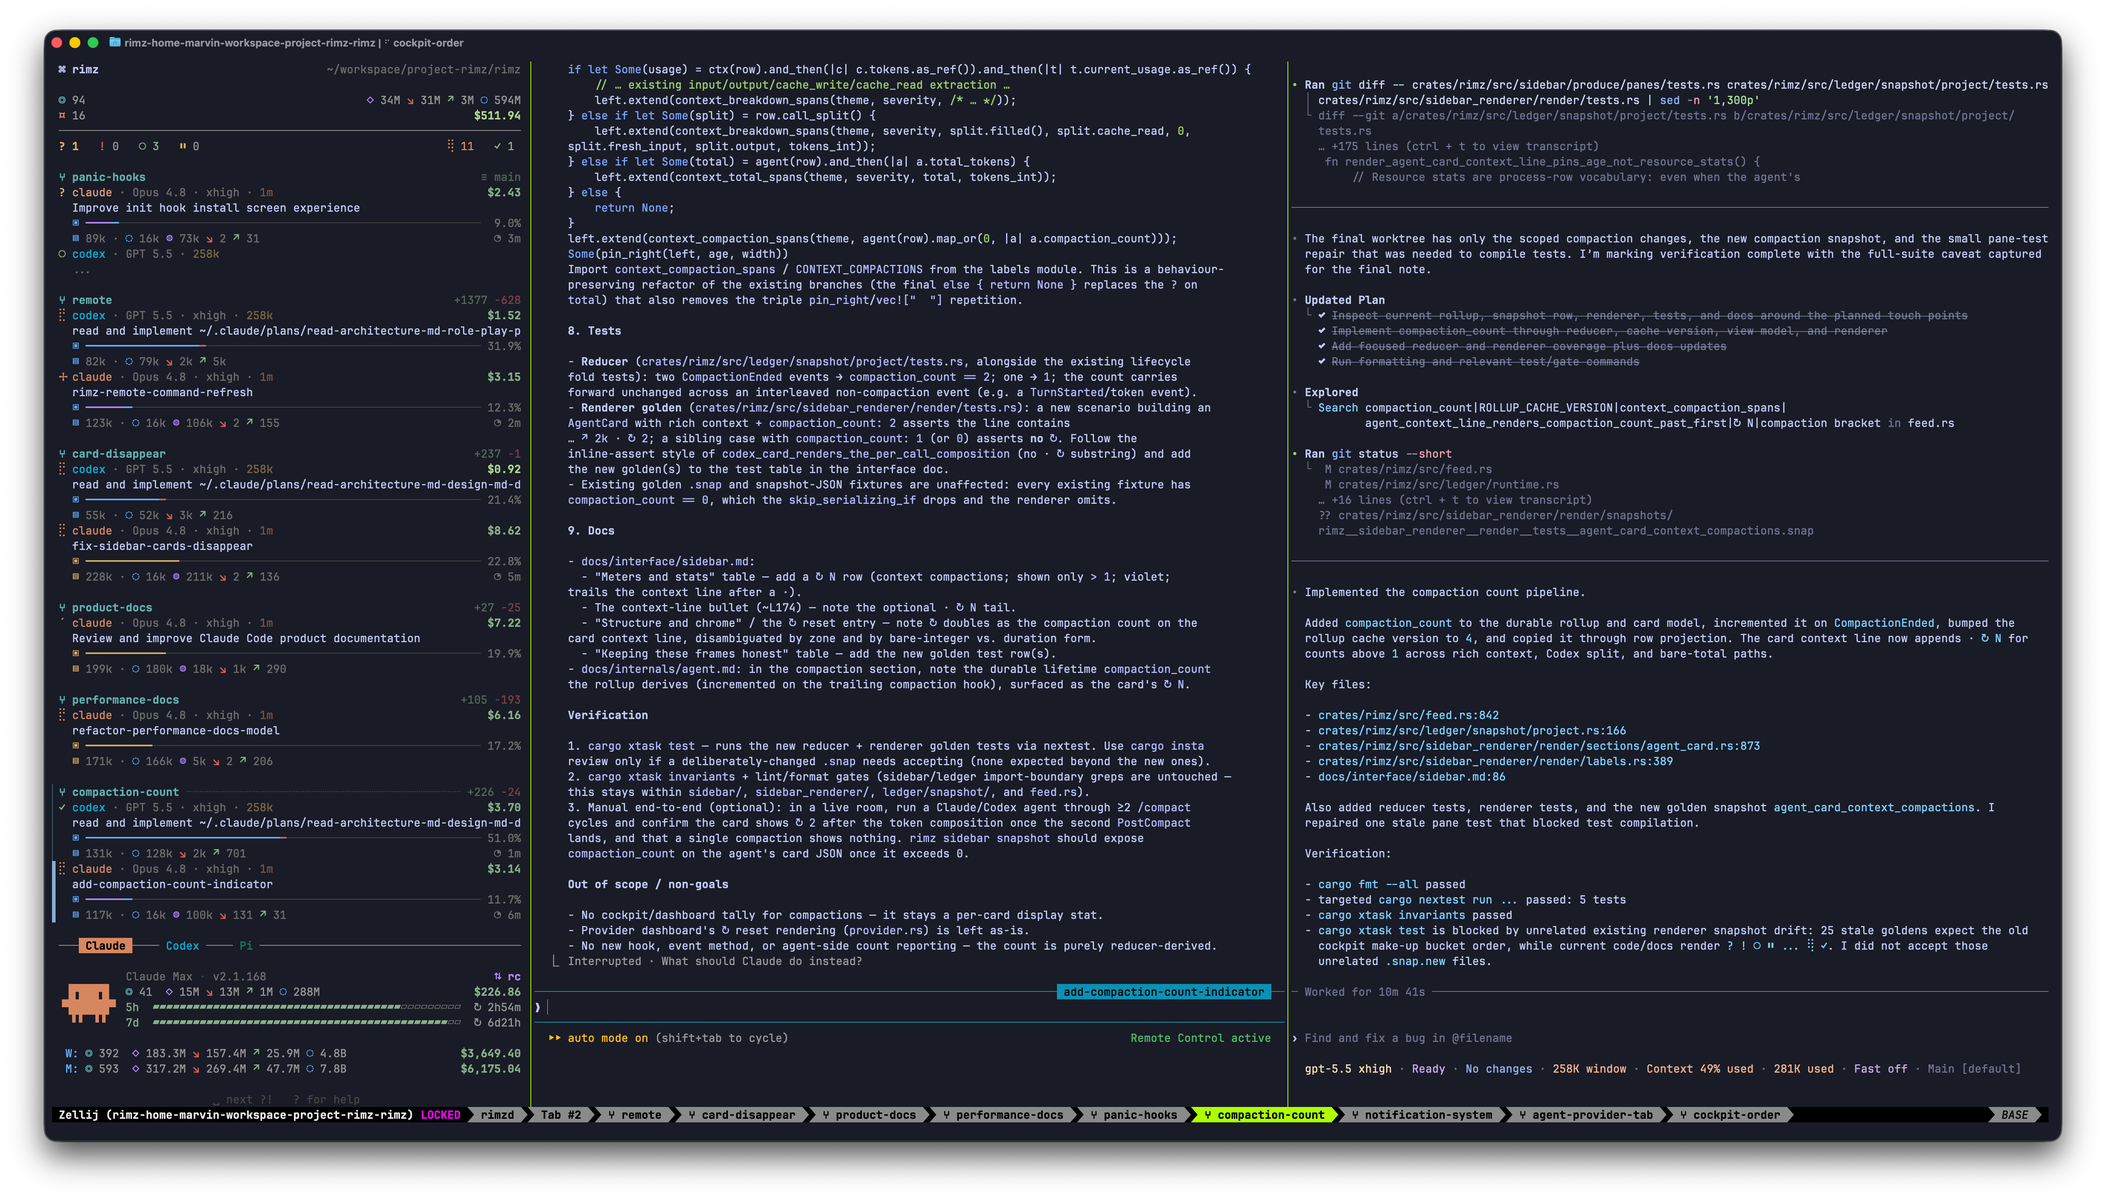
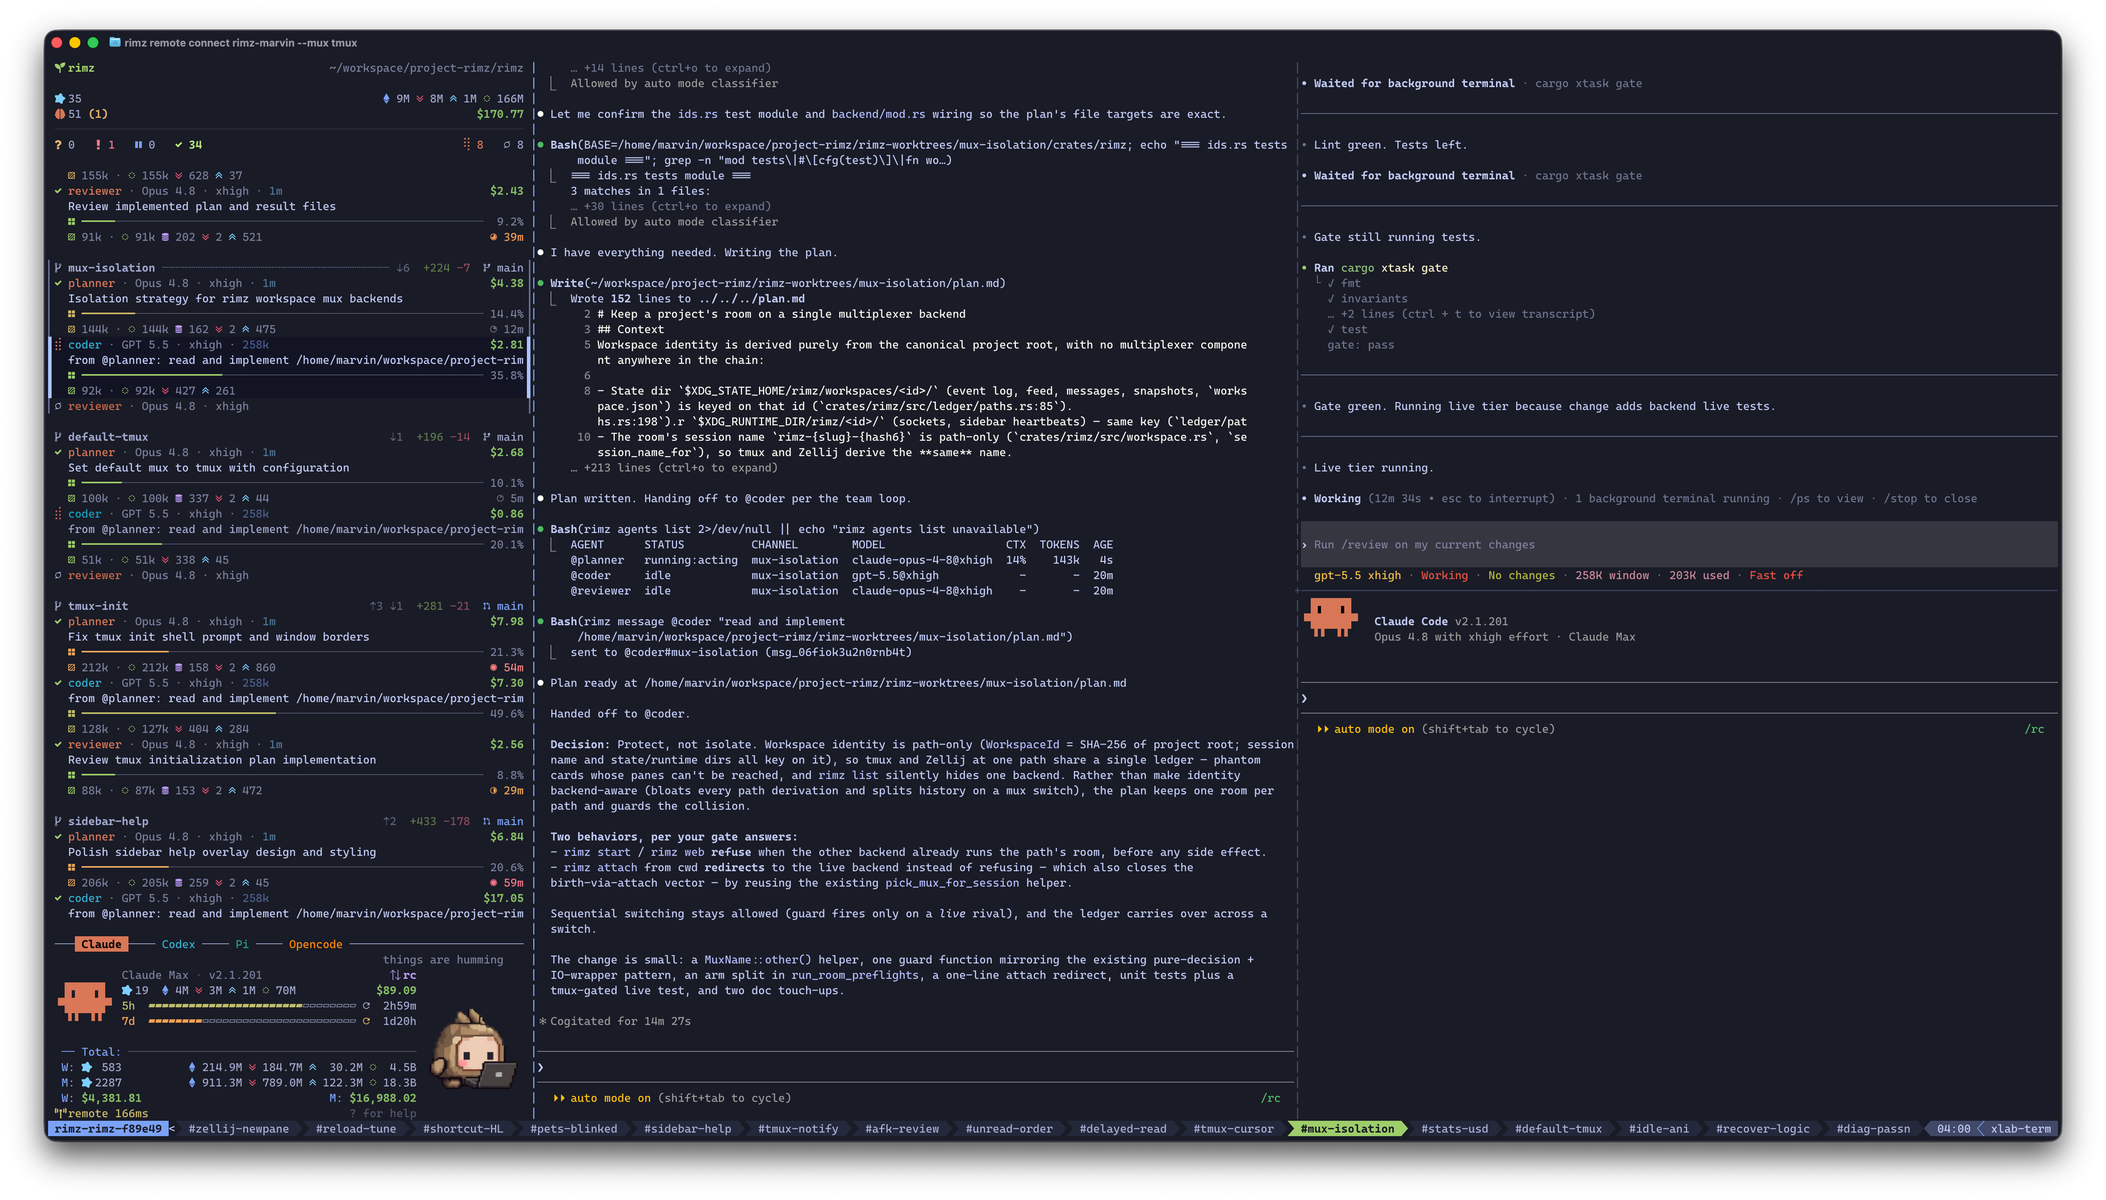
docs(readme): rewrite around the everyday harness workflow
Fold the intention draft into the fine-tuned README: position Rimz as
the substrate for harness and loop engineering, extend Everyday moves
to the full arc (layouts, worktrees, teams, resume, messages,
supervised -p runs, loop behaviors, remote and web), add a
Configuration section linking the setup guide, expand Install with the
Homebrew tap and hooks setup, list OpenCode across the diagram and
matrix, and fix the broken nav anchors. Refresh the room screenshot.

Claude-Session: https://claude.ai/code/session_011UH9MsewUN9fDoCSb4SPzc

diff --git a/README.md b/README.md
@@ -13,12 +13,13 @@
 <p align="center">
   <a href="https://github.com/rimio/rimz/actions/workflows/ci.yml"><img alt="CI" src="https://github.com/rimio/rimz/actions/workflows/ci.yml/badge.svg"></a>
   <a href="https://crates.io/crates/rimz"><img alt="crates.io" src="https://img.shields.io/crates/v/rimz.svg"></a>
-  <a href="LICENSE"><img alt="License: MIT" src="https://img.shields.io/crates/l/rimz.svg"></a>
+  <a href="LICENSE"><img alt="License: MIT" src="https://img.shields.io/badge/license-MIT-blue"></a>
 </p>
 
 <p align="center">
-  <a href="#get-started-60-seconds">Get started</a> ·
+  <a href="#get-started">Get started</a> ·
   <a href="#what-it-does">What it does</a> ·
+  <a href="#everyday-moves">Everyday moves</a> ·
   <a href="#agent-compatibility-matrix">Agents</a> ·
   <a href="#documentation">Docs</a> ·
   <a href="#install">Install</a>
@@ -31,21 +32,25 @@
 
 Rimz is a realtime dashboard for harnessing agentic coding: one human and tens of agents working together in one zellij or tmux room, where everything about every agent reads at a glance. Every agent gets a live card (state, task, context health, live cost), and the sidebar routes your attention to whichever one needs you.
 
+Rimz is also the substrate for harness and loop engineering: one uniform interface across Claude Code, Codex, Pi, and OpenCode, a durable message system for steering and queuing agents, supervised runs with exit codes for scripts and CI, and scheduled loops that keep the fleet working on a clock. All of it is a single lightweight binary inside the tmux or zellij you already run.
+
 <p align="center">
   <img src="docs/rimz-full.png" alt="A Rimz room: the sidebar triaging a fleet of coding agents beside their panes" width="100%">
-  <br/><sub>One room: the sidebar triages the fleet on the left, agents work in their own panes, the provider dashboard tracks plan and spend below.</sub>
+  <br/><sub>The sidebar triages the fleet on the left; agents work in their own panes.</sub>
 </p>
 
 ## What it does
 
 - **Realtime Harness Dashboard:** working state and task, model and effort, context health and compactions, token mix down to cache reads, live dollar cost, and the subagent tree
 - **Attention, Routed:** one glance at the cockpit line (`? 2  ! 1 …`) reads the whole fleet, the column below arrives already triaged, and one keypress drops you into the pane that is waiting
-- **Know Your Pace:** $ token insight for today, week, and month, with every provider's plan and 5h/7d budget bars draining in real time; one look tells you where the week is going, and `rimz loop` can start a provider's window on a schedule so it resets before you sit down
-- **Extremely Lightweight:** a single binary that wraps the harnesses you already run (Claude Code, Codex, Pi) inside your familiar zellij or tmux: same keybinds, same terminal, and the official web, desktop, and mobile apps all keep working
+- **Know Your Pace:** $ and token insight for today, week, and month, with every provider's plan and 5h/7d budget bars draining in real time; one look tells you where the week is going
+- **Extremely Lightweight:** a single binary that wraps the harnesses you already run (Claude Code, Codex, Pi, OpenCode) inside your familiar zellij or tmux: same keybinds, same terminal, zero learning curve, and the official web, desktop, and mobile apps all keep working
 - **Local or Remote, Continuously:** start the room on your macbook or a server, close the laptop, and reattach from anywhere; the link heals itself, and even a reboot brings the room back with layout and agents resumed
-- **Worktrees, for every Agent:** open agents together, side by side in the same worktree with dynamic layout. For example use `claude,codex` to start Claude planning and Codex reviewing for agentic peer programming, or use `vim,codex+term` to start editor, agent and terminal side by side.
-- **Scriptable and Steerable:** the `claude -p` you missed, brought back as `rimz agents -p`. Plus `rimz message`, which adds dynamic control over the agent harness and integrates agents into scripts, CI, and workflows with observability
-- **Auto Recover, while you're Away:** agents keep working after you step away. A rate-limit park resumes the moment the window resets, API hiccups recover on their own, context compacts along the way, and routine questions can route to notification handlers you wire, with the prompt still ending at your pane.
+- **Worktrees, for every Agent:** open agents together, side by side in an isolated worktree with dynamic layout: `claude,codex` starts Claude planning beside Codex reviewing, `vim,codex+term` puts your editor, an agent, and a shell in one tab
+- **Messages, agents chat as in Slack:** agents message each other and you by handle (`@codex#feat-a`), with steer/queue delivery that respects agent state and the context window; `rimz message` is the same surface for you and for scripts
+- **Scriptable, End to End:** `rimz agents -p` is `claude -p` for every agent, with exit codes, JSON output, streaming, and full observability, so agents drop into scripts, CI, and workflows
+- **Auto Continue, while you're Away:** agents keep working after you step away: a rate-limit pause resumes the moment the budget window resets, transient API errors retry on a backoff ramp, and a full context window compacts before the next prompt lands
+- **Pets, your beloved Companion:** an opt-in animated sprite on the provider dashboard that follows the fleet's state, rendered as pixels where the terminal supports them and cell art everywhere else
 
 ## How it works
 
@@ -53,18 +58,18 @@ Rimz is a realtime dashboard for harnessing agentic coding: one human and tens o
  terminal — ghostty · iterm2 · warp · kitty · vscode …
    zellij or tmux — your keybinds, your layout ...
 
-     ┌─────────┐   ┌─────────────────────────────┐
-     │ sidebar │   │  claude · codex · pi agents │
-     └────▲────┘   └──────────────┬──────────────┘
-          │ renders               │ hooks · transcripts (.jsonl)
-          │                       │ statusline (claude) · app-server (codex)
+     ┌─────────┐   ┌────────────────────────────────────────┐
+     │ sidebar │   │  claude · codex · pi · opencode agents │
+     └────▲────┘   └──────────────┬─────────────────────────┘
+          │ renders               │ hooks · transcripts (.jsonl) · oauth api
+          │                       │ statusline (claude) · app-server (codex) · extensions (pi/opencode)
           │                       │ ...
           │                       ▼
           └─────────────────────  rimz  ◀──  git status · /proc stats
 ```
 
-- **Agents report themselves:** sessions, tool calls, completions, and blocking questions arrive through each harness's own hooks and transcripts, the moment they happen
-- **Rimz fuses every channel:** agent events, git churn, and process stats combine into one live picture, and the sidebar renders it
+- **Agents report themselves:** sessions, tool calls, live status, and blocking questions arrive the moment they happen, through each agent's own hooks, transcripts, and APIs
+- **Rimz fuses every channel:** agent events, git churn, process stats, and account state combine into one live picture, and the sidebar renders it
 
 → [DESIGN.md](./DESIGN.md) · [ARCHITECTURE.md](./ARCHITECTURE.md)
 
@@ -72,7 +77,7 @@ Rimz is a realtime dashboard for harnessing agentic coding: one human and tens o
 
 ```sh
 # 1 — Install
-cargo install --locked rimz                 # or a Homebrew tap (see Install)
+cargo install --locked rimz                 # or Homebrew (see Install)
 
 # 2 — Open the room
 cd ~/code/query-engine
@@ -81,45 +86,99 @@ rimz
 # 3 — Launch agents and work; the sidebar surfaces whoever needs you
 claude                                      # or: codex, pi
 
-# 4 — Worktrees, dynamic layout
-rimz agents claude,codex --worktree=feat/x      # Claude + Codex, side by side
-rimz agents 'vim,claude+term' --worktree=feat/y # vim beside a stacked Claude and shell
+# 4 — Worktrees, teams, dynamic layout
+rimz agents claude,codex --worktree=feat/x       # Claude + Codex, side by side
+rimz agents 'vim,claude+term' --worktree=feat/y  # editor, agent, shell in one tab
+rimz agents peer --worktree=feat/z               # a saved agent team
 
-# 5 — Step away; everything keeps running
-#     zellij: Ctrl-O d · tmux: prefix d
-rimz remote connect dev-box:query-engine    # come back from any machine
+# 5 — Native SSH remote, with self-healing reconnect
+rimz remote connect dev-box:~/code/query-engine
 ```
 
-Hooks install at first time running `rimz`, with your consent and a diff preview. → [the product tour](./docs/guide/product.md)
+Hooks install on the first `rimz` run, with your consent and a diff preview. → [the product tour](./docs/guide/product.md)
 
 ## Everyday moves
 
-**Connect from anywhere.** Easily connect and resume your work with auto reconnect ssh to your dev box, it's simply tmux/zellij underlying.
+**Launch agents in layouts.** One spec describes the shape: commas split columns, `+` tiles rows, `/` stacks them, and a trailing prompt broadcasts to every agent in it.
+
+```sh
+rimz agents claude,codex "Refactor token refresh; keep the public API stable."
+rimz agents 'vim,codex+term'          # editor | agent stacked over a shell
+rimz agents claude/codex/term         # one Zellij stack; tmux tiles rows
+```
+
+**Give each task its own worktree.** `--worktree` launches into an isolated Rimz-owned Git worktree; the tab is named after it and becomes the agents' channel.
+
+```sh
+rimz agents claude,codex --worktree=feat/x            # isolate a feature branch
+rimz agents claude --worktree "Take one approach."    # parallel attempts,
+rimz agents claude --worktree "Take another one."     # each in a fresh worktree
+rimz agents codex --from-pr 42 "Review this pull request."
+```
+
+**Save the layouts you reuse as teams.** A named team in `agents.toml` gives each role a handle; launch it whole, or re-add one role to the running team.
+
+```sh
+rimz agents peer --worktree=feat/x    # built-in team: claude,codex side by side
+rimz agents pcr                       # your own team: planner, coder, reviewer
+rimz agents pcr.reviewer              # re-add one role, same handle and lane
+```
+
+**Pick up where you left off.** `--resume` reopens the newest closed session, cohort, or team matching the spec, and a room reborn after a reboot offers every prior agent back.
+
+```sh
+rimz agents claude --resume           # resume the freshest closed Claude session
+rimz agents pcr --resume              # reopen the team, every role restored
+rimz agents pcr -w feat/x --resume    # that exact worktree's team
+rimz start                            # after a reboot: offers the whole room back
+```
+
+**Message agents like teammates.** Every agent gets a handle, `@codex#feat-a` style, named by kind and scoped by its worktree or channel. The default delivery parks until the agent's turn ends; `--steer` interrupts now; `--schedule` sets the delivery time.
+
+```sh
+rimz message @claude "add coverage for the expiry edge cases"    # lands at the turn boundary
+rimz message --steer @claude "stop: the parser test comes first" # lands now
+rimz message --schedule 60m @codex#feat-b "run the smoke test"
+rimz message @all "summarize what changed when you reach a boundary"
+rimz message                                                     # the current lane's inbox
+```
+
+**Script an agent like a CLI.** `-p` runs one supervised turn and exits with the run's status code, so a script or CI job branches on the outcome.
+
+```sh
+rimz agents codex "Prepare the release checklist." -p --timeout 30m --output-format json
+cat build-error.txt | rimz agents claude -p 'explain the root cause' > out.txt
+rimz agents claude "Run the migration audit." -p --detach   # prints a pet name, returns
+rimz agents wait swift-otter --stream                       # block on it later
+```
+
+**Keep the fleet moving while you sleep.** Scheduled pings start a provider's budget window on your clock, and check-guarded loops watch CI or tests and wake an agent on the result. Auto-continue (`[resume] auto_continue`) and smart compaction (`[harness] smart_compact`) switch on in config; the [setup guide](./docs/guide/setup.md#keep-the-fleet-moving) walks all four.
+
+```sh
+rimz loop add morning --spec claude-ping --at 07:00 --days weekdays   # prime the 5h window
+rimz loop add watchdog --check "cargo test" --on fail \
+    --spec codex --prompt "fix the failing test" --every 15m
+```
+
+**Work from anywhere.** A room is plain zellij or tmux under SSH: save an alias, connect with self-healing reconnect, or open the room in a browser.
 
 ```sh
 rimz remote add dev dev-box:~/code/query-engine
-rimz remote connect dev        # the room rebuilds, every agent where you left it
+rimz remote connect dev          # the room rebuilds, every agent where you left it
+rimz remote connect dev --web    # the same room, tunneled to your local browser
+rimz web open                    # a local Zellij room in the browser
 ```
 
-**Multi agents in same worktree** Open multiple agents to work side by side on same worktree, you can have claude planning and codex writing the code, peer programming between the agents.
+## Configuration
+
+Rimz runs with zero configuration; one pass makes it yours. `rimz setup` writes the per-machine defaults under `~/.config/rimz/` (`config.toml`, `theme.toml`, `agents.toml`, `loop.toml`), every key shipped commented with its default and an inline note.
 
 ```sh
-rimz agents peer --worktree=feat/x                # launch a saved layout in a worktree
-rimz agents 'vim,codex+term' --worktree=feat/y    # or gen dynamically
+rimz setup                                  # detect the machine, write default config
+rimz config set theme "Catppuccin Mocha"    # edit one key; Rimz routes it to the owning file
 ```
 
-**Message agents by handle** Every agent automatically gets a handle, like `@codex#feat-a`, namespaced by worktree, so you message agents like teammates in Slack.
-
-```sh
-# message an agent inside workspace
-rimz message --steer @claude#feat-a "focus on the failing parser test" # talk to it now
-rimz message --on done @codex#feat-b "open a PR summary"               # send if free, otherwise park
-
-# or when you are inside the same worktree/team channel
-rimz message --steer @claude "have you checked the code at xxx"         # talk to it now
-```
-
-→ [the four scenarios, in full](./docs/guide/product.md)
+The [setup guide](./docs/guide/setup.md) covers the first pass end to end: agent hooks, true color, pets, the hands-off loop behaviors, and a modern zellij/tmux baseline with [ready-to-adopt example configs](./examples/README.md). The full key catalog is the [configuration reference](./docs/reference/configuration.md).
 
 ## Agent compatibility matrix
 
@@ -127,21 +186,42 @@ rimz message --steer @claude "have you checked the code at xxx"         # talk t
 |-------------|:------:|-------------------------------------------------------------------|
 | Claude Code | ✅     | hooks · statusline · `.jsonl` transcripts · `claude --resume`     |
 | Codex       | ✅     | hooks + `notify` · app-server · rollout `.jsonl` · `codex resume` |
-| Pi          | ✅     | extension API · session `.jsonl` · `pi --session`                 |
+| Pi          | beta   | extension API · session `.jsonl` · `pi --session`                 |
+| OpenCode    | alpha  | extension API · session `.jsonl`                                  |
 
 Adapters are thin layers over the same hook and transcript primitives ([agents internals](./docs/internals/agents/agent.md)); the agents run stock, in your terminal, with the official apps untouched.
+
+## Documentation
+
+- [Product tour](./docs/guide/product.md) — the room, the loop, and the four scenarios people run
+- [Set up your machine](./docs/guide/setup.md) — config, hooks, true color, pets, and the zellij/tmux baselines
+- [Attention](./docs/guide/attention.md) — how the sidebar decides what needs you
+- [Security](./docs/guide/security.md) — threat model and guardrails
+- [The sidebar on screen](./docs/interface/sidebar.md) — rendered frames and the glyph legend
+- [CLI reference](./docs/reference/cli.md) · [Configuration](./docs/reference/configuration.md) · [Theming](./docs/reference/theme.md)
+- [DESIGN.md](./DESIGN.md) · [ARCHITECTURE.md](./ARCHITECTURE.md) · [internals](./docs/internals/) — how it works, in depth
 
 ## Install
 
 ```sh
-cargo install --locked rimz
+cargo install --locked rimz     # from crates.io
 
-# or via a Homebrew tap — tap once, then install:
-brew tap rimio/rimz
+# or via Homebrew — tap once, then install:
+brew tap rimio/homebrew-rimz
 brew install rimz
 ```
 
-zellij or tmux runs the room. Building from source is `git clone … && cargo xtask install`; prerequisites, the pinned toolchain, and the wasm target live in [the installation guide](./docs/guide/installation.md). Rimz is pre-release: the Claude Code, Codex, and Pi adapters, both multiplexer backends, and the sidebar are implemented in-tree.
+zellij (0.44+) or tmux (3.5+) runs the room; `rimz doctor` confirms your build clears the floor. Building from source is `git clone … && cargo xtask install`; prerequisites and the pinned toolchain live in [the installation guide](./docs/guide/installation.md).
+
+Hooks are how agents report to the room. The first `rimz` run offers to install them with a diff preview, and `rimz hooks install` does the same on demand:
+
+```sh
+rimz hooks install --dry-run    # per-agent summary plus a unified diff; writes nothing
+rimz hooks install              # every detected agent (claude, codex, pi, opencode)
+rimz doctor                     # verify backend, hooks, and room health
+```
+
+The install is additive (your existing hooks stay), and `rimz hooks uninstall` undoes it. Rimz is pre-release: the agent adapters, both multiplexer backends, and the sidebar are implemented in-tree.
 
 ## Contributing
 
